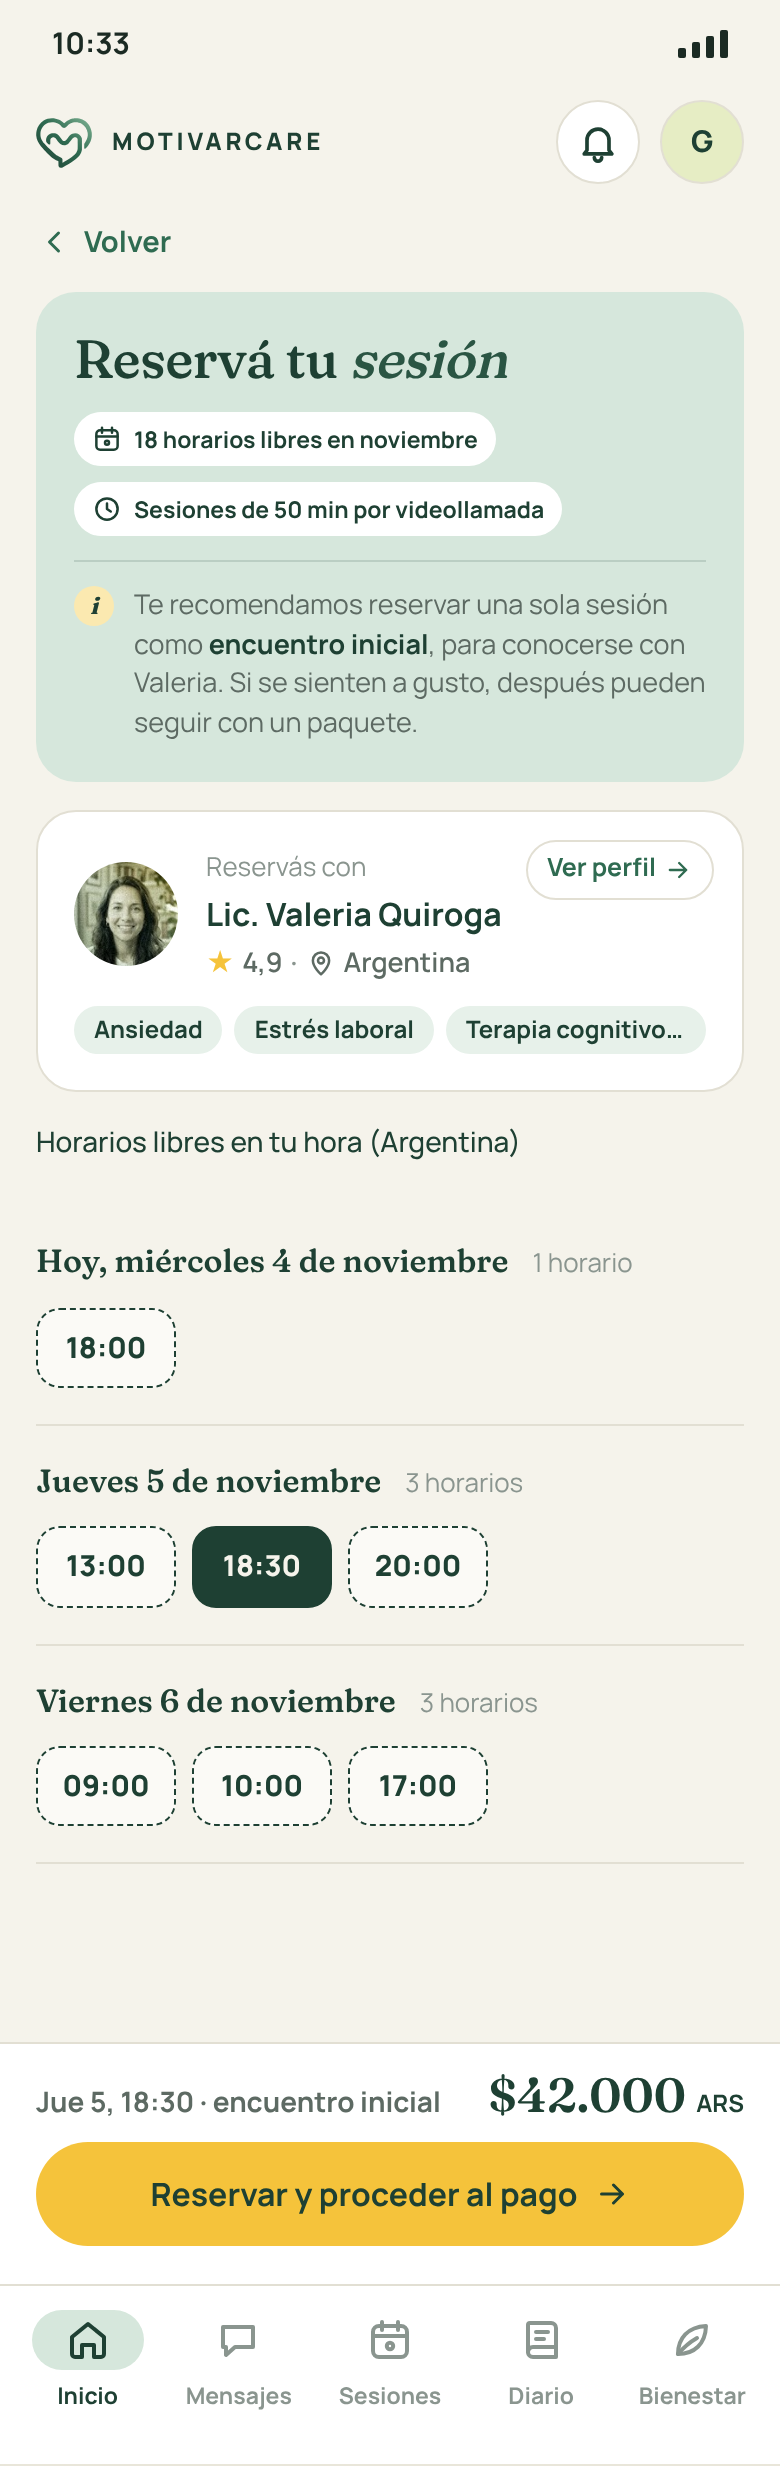
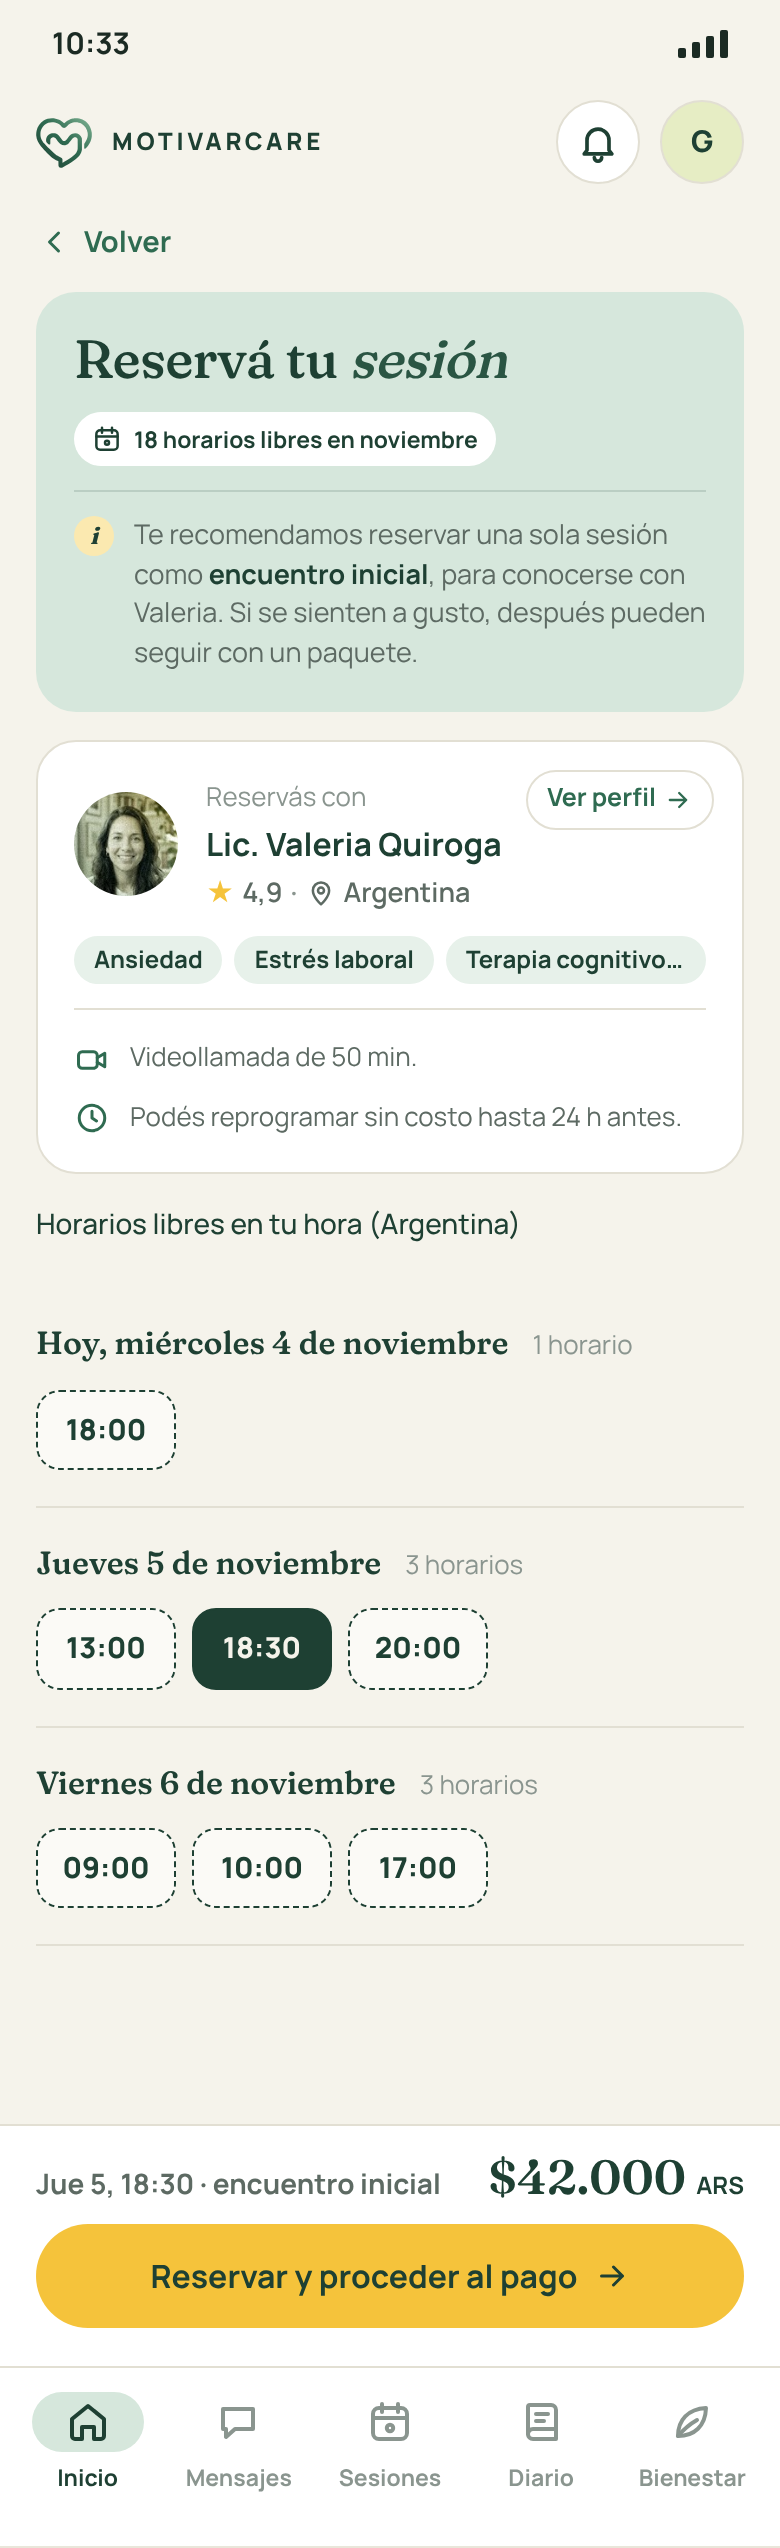
App del usuario: aclaraciones en la tarjeta del terapeuta y aviso de 24 h
En el mockup 8, la duración de las sesiones sale de la tarjeta verde y
vuelve a la tarjeta del terapeuta, con la reprogramación sin costo hasta
24 h antes. Se suma el caso de reprogramar con menos de 24 h: en lugar
de los horarios, un aviso de que no se puede y "Escribir a soporte".

Claude-Session: https://claude.ai/code/session_01WU1DRuLLvKJwMVuiPWLics

diff --git a/web/public/app-usuario/ronda-2.html b/web/public/app-usuario/ronda-2.html
@@ -788,6 +788,16 @@ ul.lista-simple { padding: 0; }
 .tel-ctx .ctx-linea.cambio b { font-size: 17px; }
 .ctx-linea .puntos4 i.u { background: var(--bosque); }
 .ctx-linea .puntos4 i { border-color: var(--bosque); }
+
+/* Mockup 8: aclaraciones en la tarjeta del terapeuta y aviso de menos de 24 h */
+.aclaraciones { display: flex; flex-direction: column; gap: 10px; padding-top: 14px; border-top: 1px solid var(--linea); }
+.aclaraciones .item { display: flex; gap: 10px; align-items: flex-start; font-size: 13.5px; color: var(--tinta-suave); }
+.aclaraciones .item .ico { color: var(--verde-medio); margin-top: 1px; }
+.tel-pro .aclaraciones .item { font-size: 13px; align-items: center; }
+.aviso-24 { display: flex; flex-direction: column; gap: 10px; padding: 20px; border-color: var(--amarillo); background: var(--superficie); }
+.aviso-24 b { font: 560 19px/1.25 var(--serif); font-variation-settings: 'SOFT' 60; color: var(--bosque); }
+.aviso-24 p { font-size: 14px; color: var(--tinta-suave); margin: 0; }
+.icono-aviso { width: 40px; height: 40px; border-radius: 50%; background: var(--amarillo-suave); color: var(--bosque); display: grid; place-items: center; }
 </style>
 </head>
 <body>
@@ -1985,7 +1995,7 @@ ul.lista-simple { padding: 0; }
         <div class="columna-izq">
           <article class="tarjeta salvia ctx-reserva">
           <h1 class="t1 ctx-t">Reservá tu próxima <em>sesión</em></h1>
-          <div class="ctx-datos"><span class="chip" style="background:var(--superficie)"><svg class="ico chico"><use href="#i-sesiones"/></svg>18 horarios libres en noviembre</span><span class="chip" style="background:var(--superficie)"><svg class="ico chico"><use href="#i-reloj"/></svg>Sesiones de 50 min por videollamada</span></div>
+          <div class="ctx-datos"><span class="chip" style="background:var(--superficie)"><svg class="ico chico"><use href="#i-sesiones"/></svg>18 horarios libres en noviembre</span></div>
           <div class="ctx-linea"><span class="puntos4"><i class="u"></i><i class="u"></i><i class="u"></i><i></i></span><span>Te queda <b>1 sesión</b> del paquete de 4 con Valeria.</span><a class="boton contorno chico-b">Comprar más sesiones</a></div>
         </article>
           <span class="peq" style="margin:18px 0 0;color:var(--bosque)">Horarios libres de Valeria, en tu hora (Argentina, GMT-3)</span>
@@ -2004,14 +2014,14 @@ ul.lista-simple { padding: 0; }
           <div class="pills"><span class="chip">Ansiedad</span><span class="chip">Estrés laboral</span><span class="chip">Terapia cognitivo-conductual</span><span class="chip">Autoestima</span><span class="chip">Vínculos</span></div>
           <p class="credenciales"><svg class="ico"><use href="#i-escudo"/></svg>Psicóloga clínica (UBA) · Matrícula verificada · 9 años de experiencia</p>
           
-        </article>
+        <div class="aclaraciones"><div class="item"><svg class="ico chico"><use href="#i-video"/></svg><span>Videollamada de 50 min. El enlace te llega por mail y queda en Sesiones.</span></div><div class="item"><svg class="ico chico"><use href="#i-reloj"/></svg><span>Podés reprogramar sin costo hasta 24 h antes.</span></div></div>
+          </article>
           <div class="tarjeta reservar-box">
             <span class="et-franja" style="width:auto;color:var(--verde-medio)">Tu sesión</span>
             <b class="cuando-box">Jueves 5 de noviembre, 18:30</b>
             <span class="peq">Hora de Argentina (GMT-3) · 50 min</span>
             <a class="boton primario grande ancho"><svg class="ico"><use href="#i-sesiones"/></svg>Reservar sesión</a>
             <span class="peq" style="text-align:center;color:var(--bosque);font-weight:600">Usás tu última sesión disponible con Valeria</span>
-            <span class="peq" style="text-align:center">Podés reprogramar sin costo hasta 24 h antes.</span>
           </div>
         </div>
       </div>
@@ -2021,8 +2031,8 @@ ul.lista-simple { padding: 0; }
 </section>
 
 <section class="lamina">
-<h2>8 · Reserva en el teléfono · caso 1: primera sesión (sin pagar) · caso 3: reprogramar</h2>
-<p class="nota-r2">Primera sesión con ese terapeuta, antes de pagar (izquierda): la tarjeta verde recomienda el encuentro inicial y el botón es "Reservar y proceder al pago". Reprogramación (derecha): la tarjeta verde muestra la sesión que se cambia y el botón es "Reprogramar sesión".</p>
+<h2>8 · Reserva en el teléfono · caso 1: primera sesión (sin pagar) · caso 3: reprogramar · reprogramar con menos de 24 h</h2>
+<p class="nota-r2">Primera sesión con ese terapeuta, antes de pagar (izquierda): la tarjeta verde recomienda el encuentro inicial y el botón es "Reservar y proceder al pago". Reprogramación (centro): la tarjeta verde muestra la sesión que se cambia y el botón es "Reprogramar sesión". Si faltan menos de 24 h (derecha), en lugar de los horarios se explica que no se puede reprogramar y se ofrece escribir a soporte.</p>
 <div class="fila-tel">
 <div>
 <div class="marco tel largo" id="r2-8-telefono">
@@ -2037,7 +2047,7 @@ ul.lista-simple { padding: 0; }
     <a class="enlace volver"><svg class="ico chico"><use href="#i-atras"/></svg>Volver</a>
     <article class="tarjeta salvia ctx-reserva tel-ctx">
           <h1 class="t1 ctx-t">Reservá tu <em>sesión</em></h1>
-          <div class="ctx-datos"><span class="chip" style="background:var(--superficie)"><svg class="ico chico"><use href="#i-sesiones"/></svg>18 horarios libres en noviembre</span><span class="chip" style="background:var(--superficie)"><svg class="ico chico"><use href="#i-reloj"/></svg>Sesiones de 50 min por videollamada</span></div>
+          <div class="ctx-datos"><span class="chip" style="background:var(--superficie)"><svg class="ico chico"><use href="#i-sesiones"/></svg>18 horarios libres en noviembre</span></div>
           <div class="nota ctx-nota"><i>i</i><span>Te recomendamos reservar una sola sesión como <b>encuentro inicial</b>, para conocerse con Valeria. Si se sienten a gusto, después pueden seguir con un paquete.</span></div>
         </article>
     <article class="tarjeta pro2 tel-pro">
@@ -2051,6 +2061,7 @@ ul.lista-simple { padding: 0; }
       </div>
       <div class="pills"><span class="chip">Ansiedad</span><span class="chip">Estrés laboral</span><span class="chip">Terapia cognitivo-conductual</span><span class="chip">Autoestima</span><span class="chip">Vínculos</span></div>
       
+    <div class="aclaraciones"><div class="item"><svg class="ico chico"><use href="#i-video"/></svg><span>Videollamada de 50 min.</span></div><div class="item"><svg class="ico chico"><use href="#i-reloj"/></svg><span>Podés reprogramar sin costo hasta 24 h antes.</span></div></div>
     </article>
     <span class="peq" style="color:var(--bosque)">Horarios libres en tu hora (Argentina)</span>
     <div class="lista-dias"><div class="dia-sec"><div class="dia-cab"><b>Hoy, miércoles 4 de noviembre</b><span class="tenue">1 horario</span></div><div class="horarios"><span class="horario">18:00</span></div></div><div class="dia-sec"><div class="dia-cab"><b>Jueves 5 de noviembre</b><span class="tenue">3 horarios</span></div><div class="horarios"><span class="horario">13:00</span><span class="horario elegido">18:30</span><span class="horario">20:00</span></div></div><div class="dia-sec"><div class="dia-cab"><b>Viernes 6 de noviembre</b><span class="tenue">3 horarios</span></div><div class="horarios"><span class="horario">09:00</span><span class="horario">10:00</span><span class="horario">17:00</span></div></div></div>
@@ -2082,7 +2093,7 @@ ul.lista-simple { padding: 0; }
     <a class="enlace volver"><svg class="ico chico"><use href="#i-atras"/></svg>Volver</a>
     <article class="tarjeta salvia ctx-reserva tel-ctx">
           <h1 class="t1 ctx-t">Reprogramá tu <em>sesión</em></h1>
-          <div class="ctx-datos"><span class="chip" style="background:var(--superficie)"><svg class="ico chico"><use href="#i-sesiones"/></svg>18 horarios libres en noviembre</span><span class="chip" style="background:var(--superficie)"><svg class="ico chico"><use href="#i-reloj"/></svg>Sesiones de 50 min por videollamada</span></div>
+          <div class="ctx-datos"><span class="chip" style="background:var(--superficie)"><svg class="ico chico"><use href="#i-sesiones"/></svg>18 horarios libres en noviembre</span></div>
           <div class="ctx-linea cambio"><span class="et-franja" style="width:auto">Estás cambiando</span><b>Viernes 6 de noviembre, 10:00</b></div>
         </article>
     <article class="tarjeta pro2 tel-pro">
@@ -2096,6 +2107,7 @@ ul.lista-simple { padding: 0; }
       </div>
       <div class="pills"><span class="chip">Ansiedad</span><span class="chip">Estrés laboral</span><span class="chip">Terapia cognitivo-conductual</span><span class="chip">Autoestima</span><span class="chip">Vínculos</span></div>
       
+    <div class="aclaraciones"><div class="item"><svg class="ico chico"><use href="#i-video"/></svg><span>Videollamada de 50 min.</span></div><div class="item"><svg class="ico chico"><use href="#i-reloj"/></svg><span>Podés reprogramar sin costo hasta 24 h antes.</span></div></div>
     </article>
     <span class="peq" style="color:var(--bosque)">Horarios libres en tu hora (Argentina)</span>
     <div class="lista-dias"><div class="dia-sec"><div class="dia-cab"><b>Hoy, miércoles 4 de noviembre</b><span class="tenue">1 horario</span></div><div class="horarios"><span class="horario">18:00</span></div></div><div class="dia-sec"><div class="dia-cab"><b>Jueves 5 de noviembre</b><span class="tenue">3 horarios</span></div><div class="horarios"><span class="horario">13:00</span><span class="horario elegido">18:30</span><span class="horario">20:00</span></div></div><div class="dia-sec"><div class="dia-cab"><b>Viernes 6 de noviembre</b><span class="tenue">3 horarios</span></div><div class="horarios"><span class="horario">09:00</span><span class="horario actual">10:00<small>La que cambiás</small></span><span class="horario">17:00</span></div></div></div>
@@ -2105,6 +2117,52 @@ ul.lista-simple { padding: 0; }
     <a class="boton primario grande ancho">Reprogramar sesión<svg class="ico chico"><use href="#i-flecha"/></svg></a>
     <span class="peq" style="text-align:center;color:var(--bosque);font-weight:600">Sin costo: faltan más de 24 h para tu sesión</span>
   </div>
+  <nav class="nav-tel">
+    <a class="activo"><span class="pastilla" style="position:relative"><svg class="ico"><use href="#i-inicio"/></svg></span>Inicio</a>
+    <a><span class="pastilla" style="position:relative"><svg class="ico"><use href="#i-chat"/></svg></span>Mensajes</a>
+    <a><span class="pastilla" style="position:relative"><svg class="ico"><use href="#i-sesiones"/></svg></span>Sesiones</a>
+    <a><span class="pastilla" style="position:relative"><svg class="ico"><use href="#i-diario"/></svg></span>Diario</a>
+    <a><span class="pastilla" style="position:relative"><svg class="ico"><use href="#i-bienestar"/></svg></span>Bienestar</a>
+  </nav>
+</div>
+</div>
+<div>
+<div class="marco tel largo" id="r2-8-sin-reprogramar-telefono">
+  <div class="estado-tel"><span>14:20</span><span class="senal"><i style="height:5px"></i><i style="height:8px"></i><i style="height:11px"></i><i style="height:14px"></i></span></div>
+  <div class="cabecera-tel">
+    <div class="marca"><img src="../landing/img/logo.svg" alt="">MOTIVARCARE</div>
+    <span class="espacio"></span>
+    <span class="boton-icono"><svg class="ico"><use href="#i-campana"/></svg></span>
+    <span class="inicial">G</span>
+  </div>
+  <div class="cuerpo-tel r8tel">
+    <a class="enlace volver"><svg class="ico chico"><use href="#i-atras"/></svg>Volver</a>
+    <article class="tarjeta salvia ctx-reserva tel-ctx">
+          <h1 class="t1 ctx-t">Reprogramá tu <em>sesión</em></h1>
+          
+          <div class="ctx-linea cambio" style="border-top:0;padding-top:0"><span class="et-franja" style="width:auto">Estás cambiando</span><b>Hoy, miércoles 4 de noviembre, 18:00</b></div>
+        </article>
+    <article class="tarjeta pro2 tel-pro">
+      <div class="pro2-cab"><a class="ver-perfil">Ver perfil<svg class="ico"><use href="#i-flecha"/></svg></a>
+        <img class="avatar" src="../landing/img/profesionales/valeria-quiroga.jpg" alt="" width="52" height="52">
+        <div>
+          <span class="tenue">Tu terapeuta</span>
+          <b>Lic. Valeria Quiroga</b>
+          <span class="califica"><span class="estrella">★</span> 4,9 <span class="sep">·</span> <span class="pais"><svg class="ico"><use href="#i-pin"/></svg>Argentina</span></span>
+        </div>
+      </div>
+      <div class="pills"><span class="chip">Ansiedad</span><span class="chip">Estrés laboral</span><span class="chip">Terapia cognitivo-conductual</span><span class="chip">Autoestima</span><span class="chip">Vínculos</span></div>
+      
+    <div class="aclaraciones"><div class="item"><svg class="ico chico"><use href="#i-video"/></svg><span>Videollamada de 50 min.</span></div><div class="item"><svg class="ico chico"><use href="#i-reloj"/></svg><span>Podés reprogramar sin costo hasta 24 h antes.</span></div></div>
+    </article>
+    <article class="tarjeta aviso-24">
+      <span class="icono-aviso"><svg class="ico"><use href="#i-reloj"/></svg></span>
+      <b>Esta sesión ya no se puede reprogramar</b>
+      <p>Faltan menos de 24 h para tu sesión con Valeria. Los cambios se pueden hacer hasta 24 h antes.</p>
+      <p>Ante cualquier consulta, escribinos a soporte.</p>
+      <a class="boton contorno ancho"><svg class="ico chico"><use href="#i-chat"/></svg>Escribir a soporte</a>
+    </article>
+    </div>
   <nav class="nav-tel">
     <a class="activo"><span class="pastilla" style="position:relative"><svg class="ico"><use href="#i-inicio"/></svg></span>Inicio</a>
     <a><span class="pastilla" style="position:relative"><svg class="ico"><use href="#i-chat"/></svg></span>Mensajes</a>

diff --git a/06-app-usuario/historial/ronda-2.md b/06-app-usuario/historial/ronda-2.md
@@ -277,14 +277,15 @@ Una sola pantalla para elegir día y horario con un terapeuta, con la navegació
 | "Reprogramar" en el Inicio (mockup 1) | 3 · Cambio de una sesión reservada | Reprogramá tu sesión | **Reprogramar sesión** |
 
 - **"Volver"** arriba.
-- **Tarjeta verde salvia arriba, con lo que se está por hacer.** En todos los casos dice cuántos horarios libres tiene el terapeuta en el mes ("18 horarios libres en noviembre") y aclara la duración ("Sesiones de 50 min por videollamada"). Además:
+- **Tarjeta verde salvia arriba, con lo que se está por hacer.** En todos los casos dice cuántos horarios libres tiene el terapeuta en el mes ("18 horarios libres en noviembre"). Además:
   - **Caso 1 (primera sesión):** recomienda reservar una sola sesión como **encuentro inicial**, para conocerse con el terapeuta.
   - **Caso 2 (próxima sesión):** cuántas sesiones quedan del paquete, con los puntos del design system. **Si queda 1 o ninguna, ofrece "Comprar más sesiones"** (en el mockup queda 1).
   - **Caso 3 (reprogramar):** "Estás cambiando" y la sesión que se reprograma. En la lista, ese horario se ve en salvia con "La que cambiás".
+  - **Caso 3 con menos de 24 h para la sesión:** en lugar de los horarios, un aviso: "Esta sesión ya no se puede reprogramar", porque los cambios se pueden hacer hasta 24 h antes, y "Ante cualquier consulta, escribinos a soporte", con el botón "Escribir a soporte". No hay botón amarillo.
 - **Los días, debajo y fuera de cualquier tarjeta:** cada día es un encabezado con el día y el mes ("Jueves 5 de noviembre", con la cantidad de horarios), y debajo sus horarios libres con borde punteado. Se recorren con el scroll de la página. El horario elegido va en verde bosque. Se reserva una sesión por vez.
-- **A la derecha (escritorio): la tarjeta blanca del terapeuta** (foto, nombre, "★ 4,9 · Argentina", especialidades y credenciales) **y "Tu sesión"** con el día y la hora elegidos y el botón amarillo, debajo de una aclaración del uso de sesiones ("Usás tu última sesión disponible con Valeria") y de la reprogramación sin costo hasta 24 h antes.
-- **En el teléfono:** la tarjeta verde, la del terapeuta (con "Reservás con" si todavía no contrató), los días, y el botón en una barra fija sobre la navegación, con el horario elegido (y el precio, si falta pagar). Al reprogramar, la barra muestra la nueva fecha y si el cambio es sin costo. Con menos de 24 h para la sesión actual, el cambio no es sin costo: falta definir qué se muestra en ese caso.
-- **En el mockup:** escritorio, caso 2 con 1 sesión disponible; teléfono, caso 1 antes de pagar y caso 3.
+- **A la derecha (escritorio): la tarjeta blanca del terapeuta** (foto, nombre, "★ 4,9 · Argentina", especialidades y credenciales) **con las aclaraciones del servicio**, como en la contratación: la videollamada de 50 minutos (el enlace llega por mail y queda en Sesiones) y la reprogramación sin costo hasta 24 h antes. Debajo, **"Tu sesión"** con el día y la hora elegidos, el botón amarillo y el uso de sesiones ("Usás tu última sesión disponible con Valeria").
+- **En el teléfono:** la tarjeta verde, la del terapeuta (con "Reservás con" si todavía no contrató), los días, y el botón en una barra fija sobre la navegación, con el horario elegido (y el precio, si falta pagar). Al reprogramar, la barra muestra la nueva fecha y si el cambio es sin costo. Con menos de 24 h para la sesión actual, no se puede reprogramar (ver el caso 3 con menos de 24 h).
+- **En el mockup:** escritorio, caso 2 con 1 sesión disponible; teléfono, caso 1 antes de pagar, caso 3 y caso 3 con menos de 24 h.
 
 ## Decisiones de la ronda
 
@@ -315,3 +316,4 @@ En la primera versión del mockup 5, "Especialidad" era un tercer criterio de or
 - **Mockup 8, segunda versión:** en lugar de elegir un día por vez, la reserva mantiene la estructura del mockup 2 y los días se recorren con scroll, cada uno con sus horarios debajo. Se reserva una sesión por vez (se saca "Todas las semanas").
 - **Mockup 8, tercera versión:** la tarjeta verde pasa arriba con los datos del terapeuta; los días (con su mes) y sus horarios quedan fuera de cualquier tarjeta y se recorren con el scroll de la página; el botón va en una barra fija abajo. Se suman los tres botones según el caso: "Reservar sesión", "Reservar y proceder al pago" y "Reprogramar sesión".
 - **Mockup 8, cuarta versión:** vuelven a la derecha (en escritorio) la tarjeta blanca del terapeuta y el botón amarillo. Arriba de los días, una tarjeta verde salvia dice qué se está por hacer según el caso (primera sesión, próxima sesión o reprogramar), con los horarios libres del mes, la duración de las sesiones y el dato propio de cada caso (encuentro inicial, sesiones que quedan con "Comprar más sesiones", o la sesión que se cambia).
+- En la reserva (mockup 8), la duración de las sesiones sale de la tarjeta verde y vuelve, junto con la reprogramación sin costo hasta 24 h antes, a la tarjeta blanca del terapeuta, como en la contratación. Si se intenta reprogramar con menos de 24 h para la sesión, en lugar de los horarios se explica que no se puede y se ofrece escribir a soporte.
